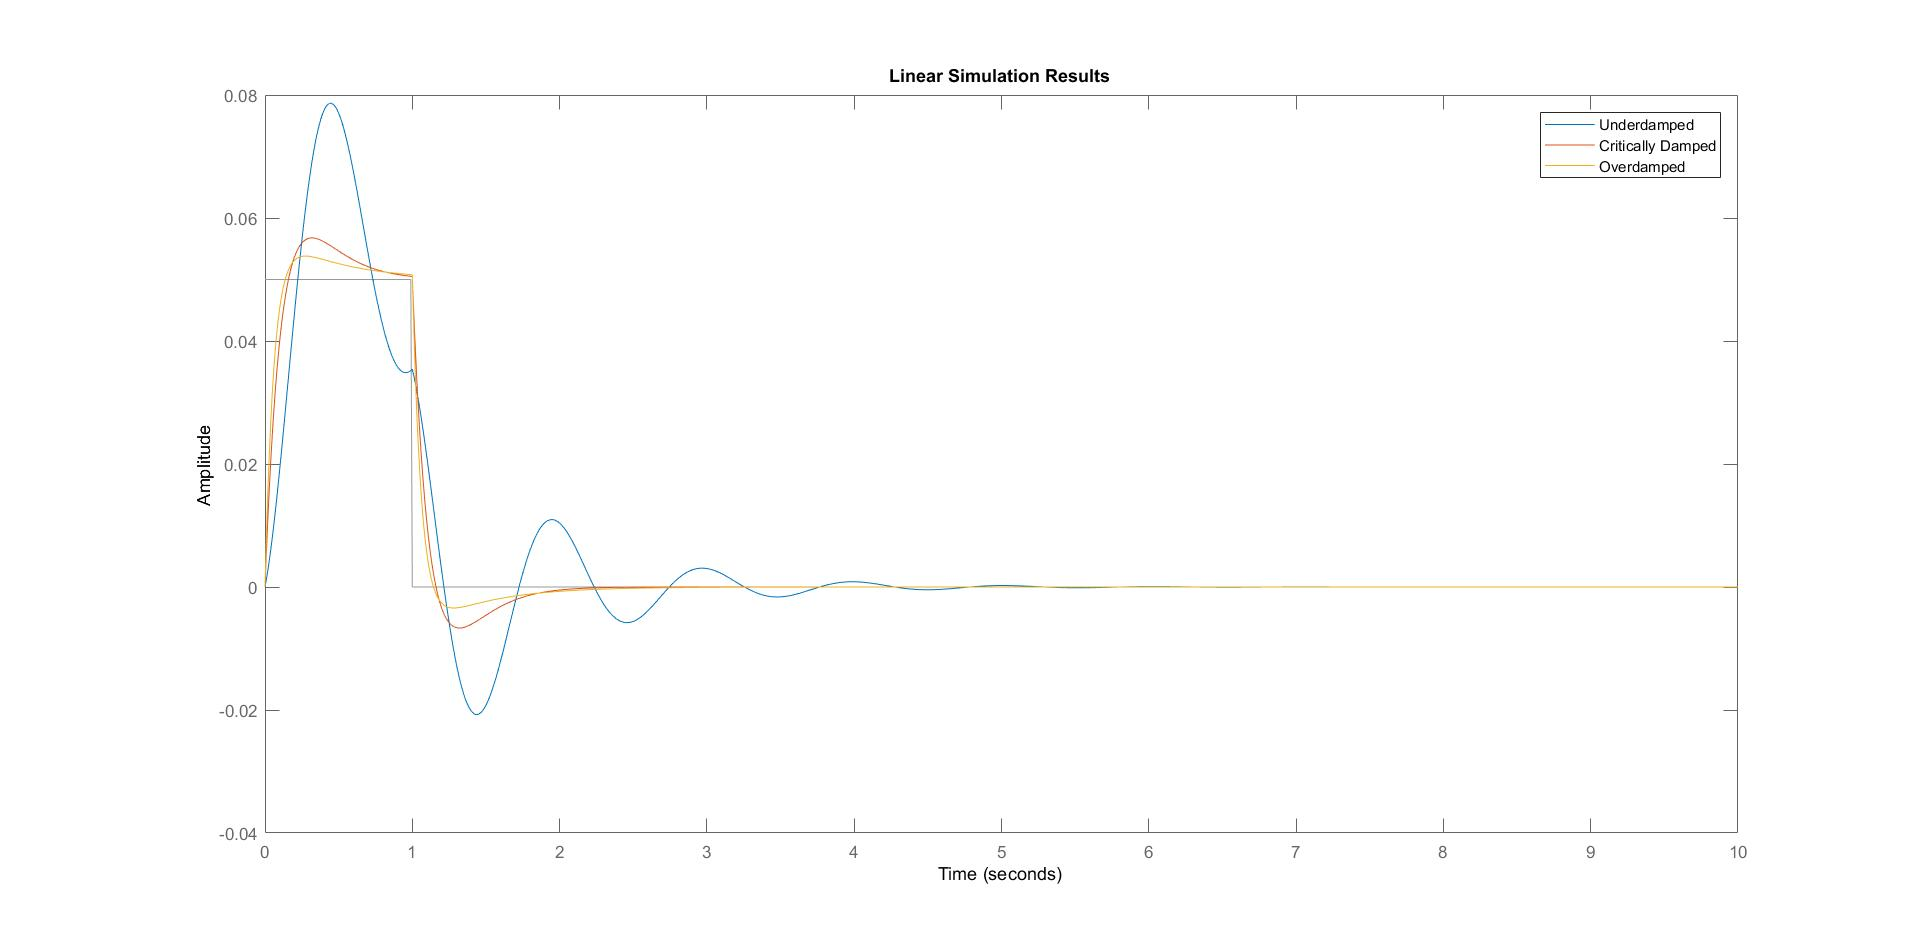
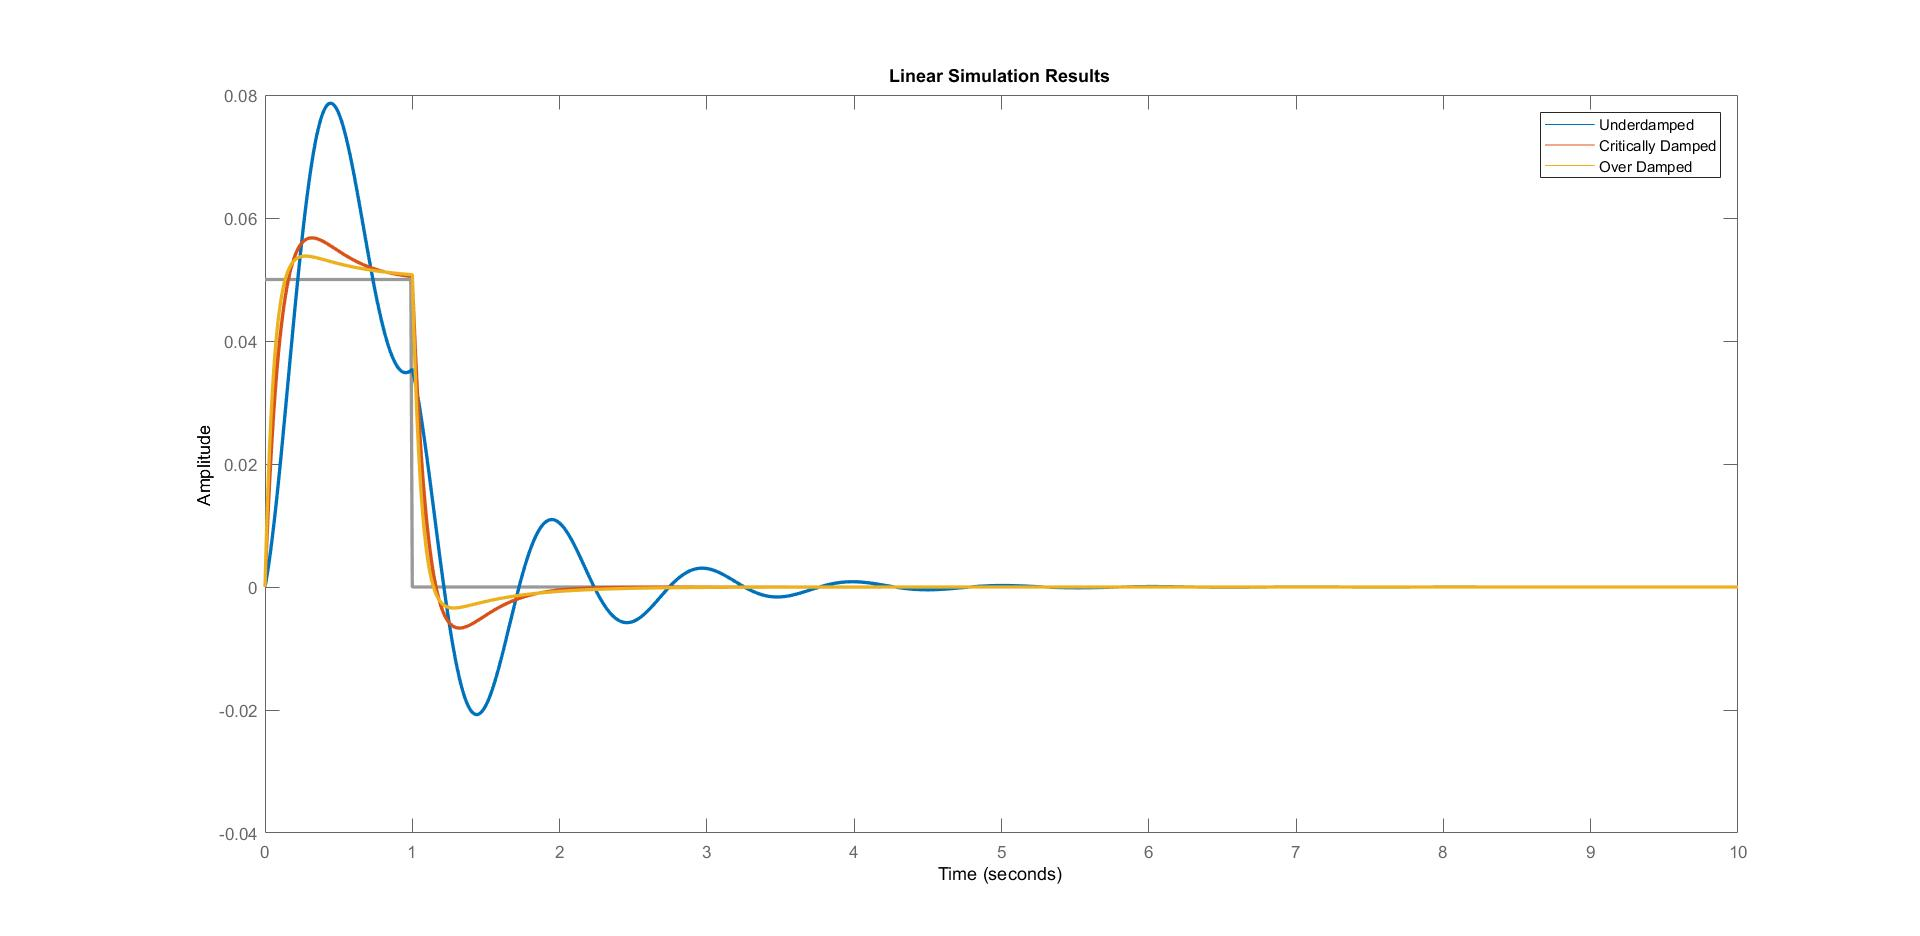
we

diff --git a/task1_1.m b/task1_1.m
@@ -15,38 +15,42 @@ H = tf([0,2*zeta*w_n,w_n^2],[1,2*zeta*w_n,w_n^2])
 H1 = tf([0,2*zeta1*w_n,w_n^2],[1,2*zeta1*w_n,w_n^2])
 % fr= 0:0.01:100;
 % [mag,phase,wout] = bode(H1,fr);
-bode(H);
+% bode(H,H1);
+% set(findall(gcf,'type','line'), 'LineWidth', 2);
 % bode(H1);
 
 % %% task 1.3
 % 
-% %% sine excitation
-% t = 0:0.01:10;
-% excitation_sin = 0.05*sin(3*t);
-% 
-% % figure()
-% % plot(t,excitation_sin)
-% 
-% figure(1)
-% lsim(H,excitation_sin,t) % sine excitation
-% hold on;
-%  %% Impulse
-% stepinput = 0.05*ones([1 length(t)]);
-% for i = 101:length(t)
-%    stepinput(i) = 0; 
-% end
-% 
-% figure(2)
-% lsim(H,stepinput,t) % impulse excitation
-% hold on;
-%  %%PSD
-% w = 0:25;
-% PSD = (4.028e-7)./((2.88e-4)+(0.68*w.^2)+w.^4);
-% Hfreqdomain = freqresp(H,w);
-% H = abs(Hfreqdomain(:))';
-% PSD = H.^2.*PSD;
-% 
-% figure(3)
-% semilogy(w,PSD)
-% hold on;
+%% sine excitation
+t = 0:0.01:10;
+excitation_sin = 0.05*sin(3*t);
+
+% figure()
+% plot(t,excitation_sin)
+
+figure(1)
+lsim(H,excitation_sin,t) % sine excitation
+hold on;
+set(findall(gcf,'type','line'), 'LineWidth', 2);
+ % Impulse
+stepinput = 0.05*ones([1 length(t)]);
+for i = 101:length(t)
+   stepinput(i) = 0; 
+end
+
+figure(2)
+lsim(H,stepinput,t) % impulse excitation
+hold on;
+set(findall(gcf,'type','line'), 'LineWidth', 2);
+ %%PSD
+w = 0:25;
+PSD = (4.028e-7)./((2.88e-4)+(0.68*w.^2)+w.^4);
+Hfreqdomain = freqresp(H,w);
+H = abs(Hfreqdomain(:))';
+PSD = H.^2.*PSD;
+
+figure(3)
+semilogy(w,PSD)
+hold on;
+set(findall(gcf,'type','line'), 'LineWidth', 2);
 

diff --git a/task2.m b/task2.m
@@ -23,8 +23,8 @@ coeff= 0;
 %     for d_p=0:0.2:1
 % coeff=coeff +1;    
 % H = tf([0,2*zeta*w_n,w_n^2],[1,2*zeta*w_n,w_n^2]);
-% d_d = 1;
-d_d= 2*m_p*w_n; %crtically damped
+d_d = 1;
+% d_d= 2*m_p*w_n; %crtically damped
 d_p = 0;
 G = tf([0,0,k_p],[m_p,d_d,k_p+d_p]);
 % bode(G)
@@ -38,6 +38,7 @@ excitation_sin = 0.05*sin(3*t);
 figure(1)
 lsim(G,excitation_sin,t) % sine excitation
 hold on;
+set(findall(gcf,'type','line'), 'LineWidth', 2);
  %% Impulse
 stepinput = 0.05*ones([1 length(t)]);
 for i = 101:length(t)
@@ -47,6 +48,7 @@ end
 figure(2)
 lsim(G,stepinput,t) % impulse excitation
 hold on;
+set(findall(gcf,'type','line'), 'LineWidth', 2);
  %%PSD
 w = 0:25;
 PSD = (4.028e-7)./((2.88e-4)+(0.68*w.^2)+w.^4);
@@ -57,6 +59,7 @@ PSD = G.^2.*PSD;
 figure(3)
 semilogy(w,PSD)
 hold on;
+set(findall(gcf,'type','line'), 'LineWidth', 2);
 % 
 % 
 % w_calc= sqrt((k_p+d_p)/m_p);

diff --git a/task4.m b/task4.m
@@ -10,7 +10,7 @@ k_p = 6.32; %N/m
 w_n = sqrt(k_p/m_p);
 zeta= c_p/(2*sqrt(k_p*m_p));
 % T=2*zeta*w_n*m_p;
-% for T = 2:0.01:3;
+% for T = 0:0.01:3;
 T= 1; %optimised T
 
 coeff=coeff +1;    
@@ -31,6 +31,7 @@ excitation_sin = 0.05*sin(3*t);
  figure(1)
 lsim(N,excitation_sin,t) % sine excitation
 hold on;
+set(findall(gcf,'type','line'), 'LineWidth', 2);
  %% Impulse
 stepinput = 0.05*ones([1 length(t)]);
 for i = 101:length(t)
@@ -40,6 +41,7 @@ end
 figure(2)
 lsim(N,stepinput,t) % impulse excitation
 hold on;
+set(findall(gcf,'type','line'), 'LineWidth', 2);
  %%PSD
 w = 0:25;
 PSD = (4.028e-7)./((2.88e-4)+(0.68*w.^2)+w.^4);
@@ -50,6 +52,7 @@ PSD = N.^2.*PSD;
 figure(3)
 semilogy(w,PSD)
 hold on
+set(findall(gcf,'type','line'), 'LineWidth', 2);
 % 
 %  zeta_calc(coeff) = T/(2*w_n*m_p);
 %  w_calc(coeff) = T/(2*zeta_calc(coeff)*m_p);

diff --git a/task3.m b/task3.m
@@ -39,6 +39,7 @@ excitation_sin = 0.05*sin(3*t);
 figure(1)
 lsim(M,excitation_sin,t); % sine excitation
 hold on;
+set(findall(gcf,'type','line'), 'LineWidth', 2);
 
  %% Impulse
 stepinput = 0.05*ones([1 length(t)]);
@@ -49,6 +50,7 @@ end
 figure(2)
 lsim(M,stepinput,t);
 hold on% impulse excitation
+set(findall(gcf,'type','line'), 'LineWidth', 2);
 % w_calc(coeff)= h_p/(2*zeta*a);
 
  %%PSD
@@ -60,6 +62,7 @@ PSD = M.^2.*PSD;
 figure(3)
 semilogy(w,PSD);
 hold on;
+set(findall(gcf,'type','line'), 'LineWidth', 2);
 % end
 % zeta_calc = (k_p+h_p)/(2*w_n*m_p);
 % w_calc = (k_p+h_p)/(2*zeta*m_p);
